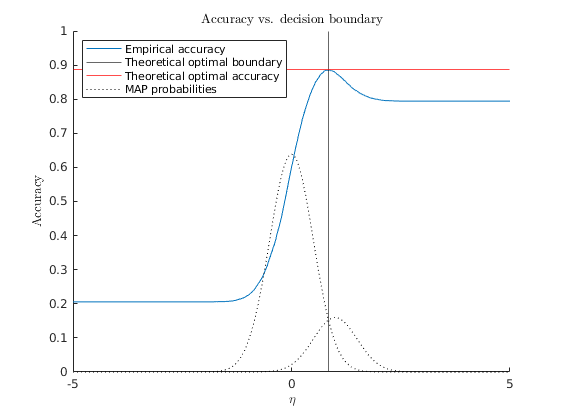
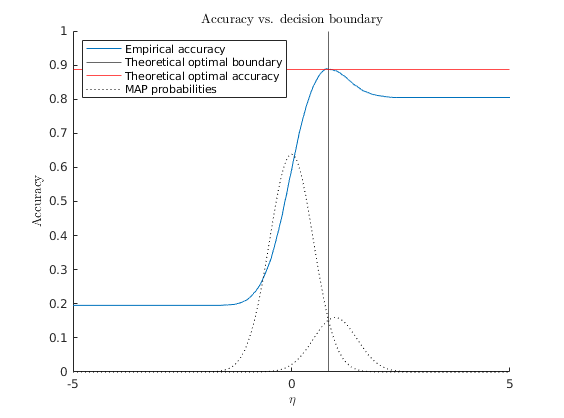
updated published proj4

diff --git a/proj4/html/proj4.html b/proj4/html/proj4.html
@@ -89,7 +89,7 @@ theo_accuracy = p0*qfunc(-dec_boundary/sigma) <span class="keyword">...</span>
 </pre><pre class="codeoutput">
 emp_accuracy =
 
-    0.8848
+    0.8882
 
 
 theo_accuracy =
@@ -171,7 +171,7 @@ P_D = zeros(length(etas), 1);
         sprintf(<span class="string">'Q1c modified cost boundary (\\eta=%f)'</span>, q1c_boundary)],<span class="keyword">...</span>
         <span class="string">'Location'</span>, <span class="string">'southeast'</span>);
 <span class="keyword">end</span>
-</pre><img vspace="5" hspace="5" src="proj4_02.png" alt=""> <img vspace="5" hspace="5" src="proj4_03.png" alt=""> <img vspace="5" hspace="5" src="proj4_04.png" alt=""> <img vspace="5" hspace="5" src="proj4_05.png" alt=""> <img vspace="5" hspace="5" src="proj4_06.png" alt=""> <img vspace="5" hspace="5" src="proj4_07.png" alt=""> <h2 id="5">q1d</h2><p>calculating cost of best decision boundary using cost metric from q1c</p><pre class="codeinput"><span class="comment">% use same sigma as in part a</span>
+</pre><img vspace="5" hspace="5" src="proj4_02.png" alt=""> <img vspace="5" hspace="5" src="proj4_03.png" alt=""> <img vspace="5" hspace="5" src="proj4_04.png" alt=""> <img vspace="5" hspace="5" src="proj4_05.png" alt=""> <img vspace="5" hspace="5" src="proj4_06.png" alt=""> <h2 id="5">q1d</h2><p>calculating cost of best decision boundary using cost metric from q1c</p><pre class="codeinput"><span class="comment">% use same sigma as in part a</span>
 X = sigma*randn(N, 1);
 Y = X + A;
 
@@ -194,7 +194,7 @@ plot(p0s, costs);
 ylabel(<span class="string">'Mean cost'</span>);
 xlabel(<span class="string">'$$P_0$$ (prior probability of target not present)'</span>);
 title(<span class="string">'Cost vs. prior probability of target not present'</span>);
-</pre><img vspace="5" hspace="5" src="proj4_08.png" alt=""> <img vspace="5" hspace="5" src="proj4_09.png" alt=""> <h2 id="6">q1e</h2><p>similar to part a, but now we have two distributions with the same mean but different variances (a.o.t. same variance, different means);</p><pre class="codeinput">A = a * ones(N, 1); <span class="comment">% use same mean a as before, now for both distributions</span>
+</pre><img vspace="5" hspace="5" src="proj4_07.png" alt=""> <h2 id="6">q1e</h2><p>similar to part a, but now we have two distributions with the same mean but different variances (a.o.t. same variance, different means);</p><pre class="codeinput">A = a * ones(N, 1); <span class="comment">% use same mean a as before, now for both distributions</span>
 sigmaz = [3 5];     <span class="comment">% stdev for first distribution (target not present)</span>
 sigmax = [1/5 1/2]; <span class="comment">% stdev for second distribution (target present)</span>
 
@@ -215,7 +215,7 @@ emp_accuracy = mean(((Y - a).^2 &gt; dec_boundary) == dst)
 </pre><pre class="codeoutput">
 emp_accuracy =
 
-    0.9094
+    0.9118
 
 </pre><h2 id="7">(still q1e) sanity check: plot eta vs. accuracy</h2><p>(to demonstrate that this is actually the best error)</p><pre class="codeinput">etas = linspace(-5, 5, 1e3);
 accuracies = zeros(length(etas), 1);
@@ -235,7 +235,7 @@ ylim([0 1]);
 title(<span class="string">'Accuracy vs. decision boundary'</span>);
 legend([<span class="string">"Empirical accuracy"</span>, <span class="string">"Theoretical optimal boundary"</span>, <span class="keyword">...</span>
     <span class="string">"Optimal accuracy"</span>], <span class="string">'Location'</span>, <span class="string">'southeast'</span>);
-</pre><img vspace="5" hspace="5" src="proj4_10.png" alt=""> <h2 id="8">(still q1e) plotting ROCs</h2><p>same as q1b, but with the same setup from q1e</p><pre class="codeinput">etas = linspace(-10, 10, 1e3);
+</pre><img vspace="5" hspace="5" src="proj4_08.png" alt=""> <h2 id="8">(still q1e) plotting ROCs</h2><p>same as q1b, but with the same setup from q1e</p><pre class="codeinput">etas = linspace(-10, 10, 1e3);
 sigmas = logspace(-1, 1, 5);
 P_F = zeros(length(etas), 1);
 P_D = zeros(length(etas), 1);
@@ -278,7 +278,7 @@ P_D = zeros(length(etas), 1);
         <span class="string">'Location'</span>, <span class="string">'southeast'</span>);
 <span class="keyword">end</span>
 <span class="keyword">end</span>
-</pre><img vspace="5" hspace="5" src="proj4_11.png" alt=""> <img vspace="5" hspace="5" src="proj4_12.png" alt=""> <img vspace="5" hspace="5" src="proj4_13.png" alt=""> <img vspace="5" hspace="5" src="proj4_14.png" alt=""> <h2 id="9">q2: MAP estimate on fisheriris</h2><p>using a multivariate gaussian estimator</p><pre class="codeinput">clc; clear; close <span class="string">all</span>;
+</pre><img vspace="5" hspace="5" src="proj4_09.png" alt=""> <img vspace="5" hspace="5" src="proj4_10.png" alt=""> <img vspace="5" hspace="5" src="proj4_11.png" alt=""> <img vspace="5" hspace="5" src="proj4_12.png" alt=""> <h2 id="9">q2: MAP estimate on fisheriris</h2><p>using a multivariate gaussian estimator</p><pre class="codeinput">clc; clear; close <span class="string">all</span>;
 load(<span class="string">'Iris'</span>);
 
 N = size(features, 1);          <span class="comment">% numbere of samples</span>
@@ -320,9 +320,9 @@ title(<span class="string">'Iris classification confusion matrix'</span>);
 </pre><pre class="codeoutput">
 accuracy =
 
-    0.9778
+    0.9747
 
-</pre><img vspace="5" hspace="5" src="proj4_15.png" alt=""> <p class="footer"><br><a href="https://www.mathworks.com/products/matlab/">Published with MATLAB&reg; R2021a</a><br></p></div><!--
+</pre><img vspace="5" hspace="5" src="proj4_13.png" alt=""> <p class="footer"><br><a href="https://www.mathworks.com/products/matlab/">Published with MATLAB&reg; R2021a</a><br></p></div><!--
 ##### SOURCE BEGIN #####
 %%% ECE302 Project 4
 % Steven Lee & Jonathan Lam
